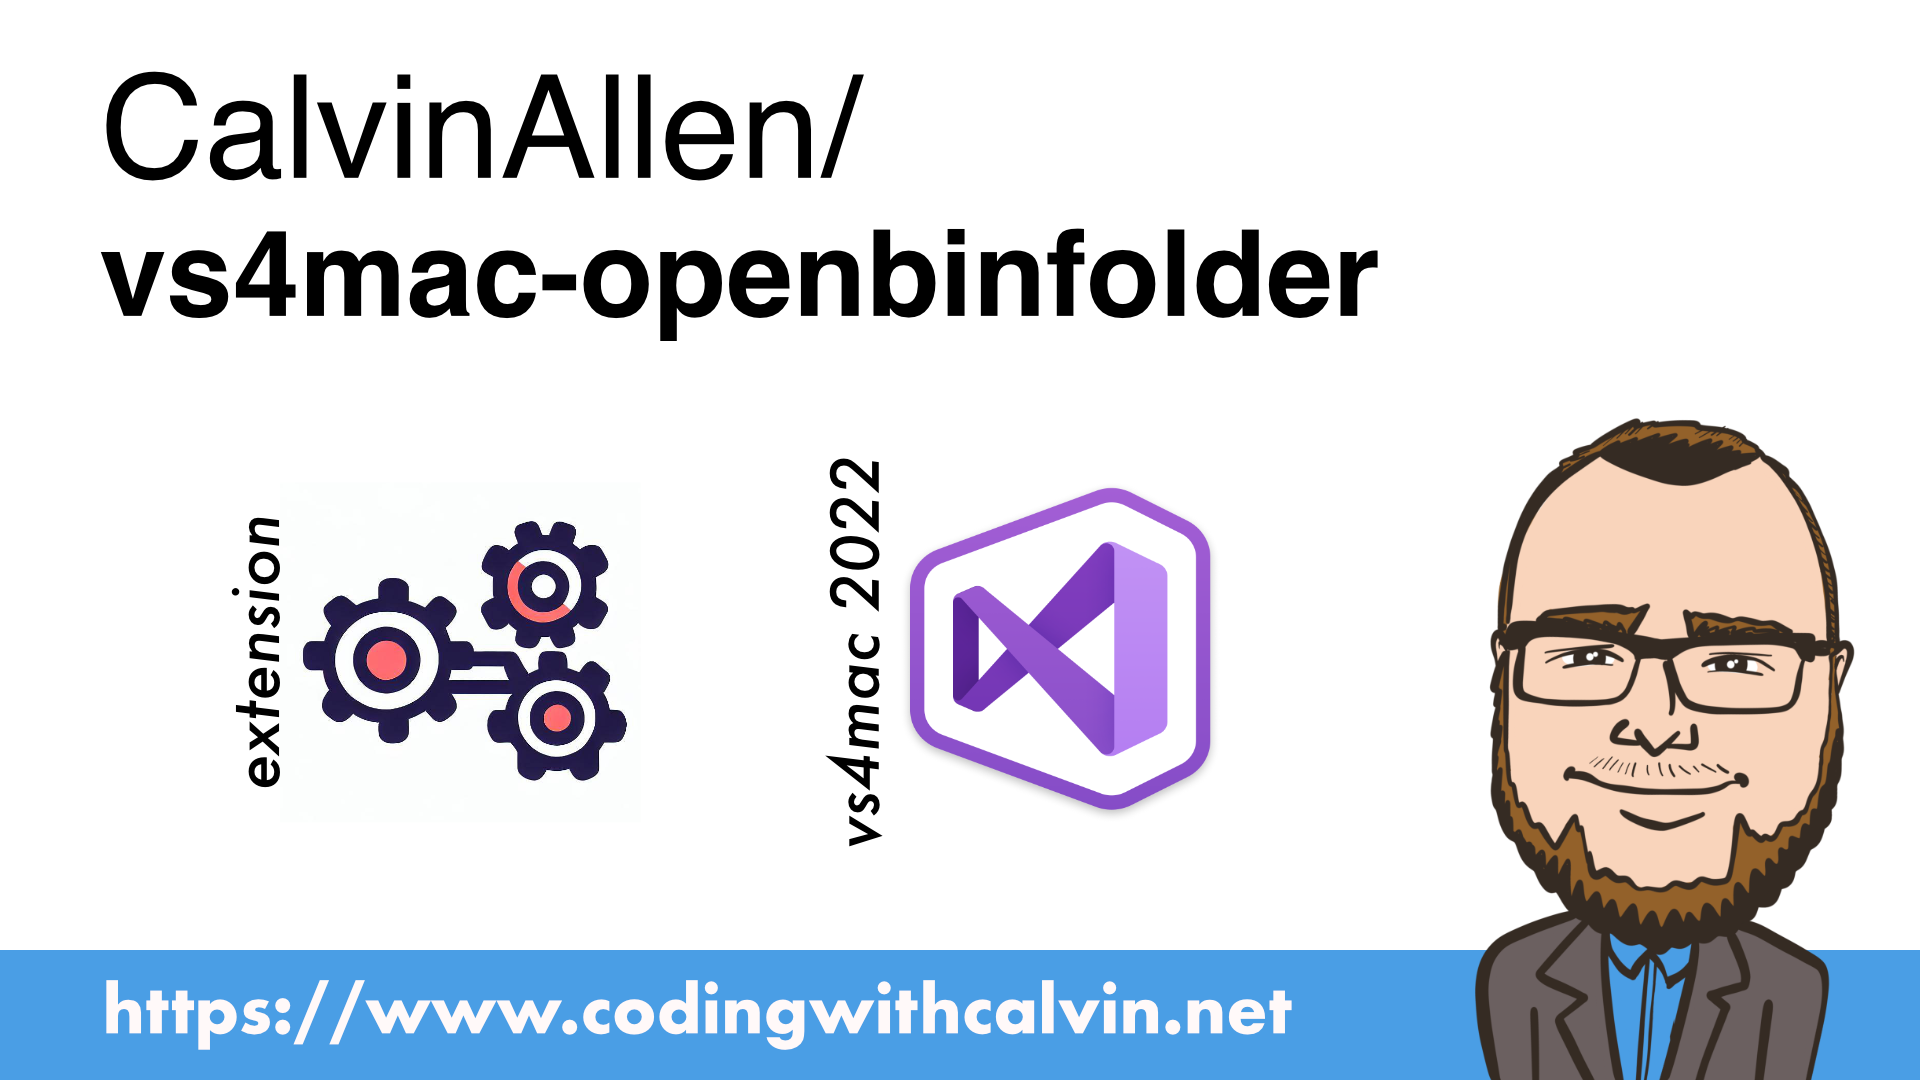
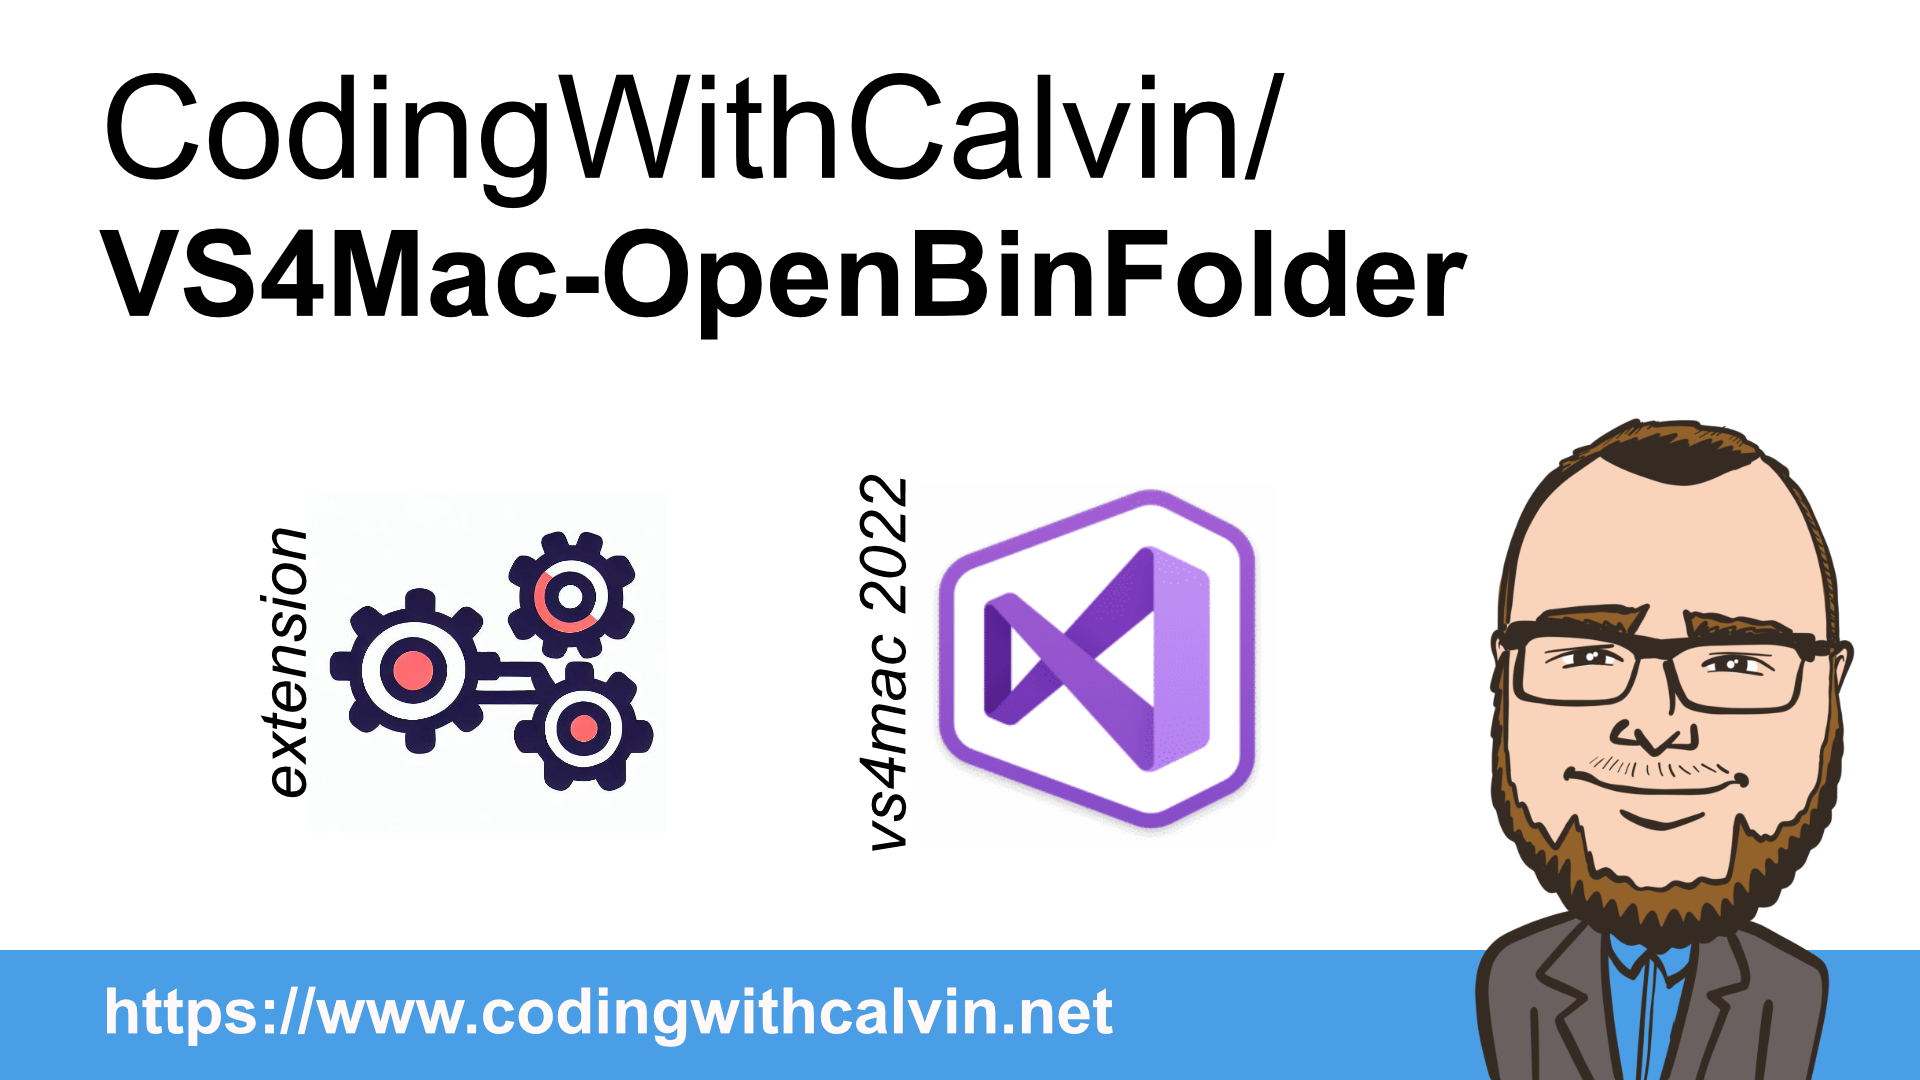
Fixing OSS links and cover images

diff --git a/_posts/2023/2023-04-19-introducing-the-super-clean-visual-studio-for-mac-extension/2023-04-19-introducing-the-super-clean-visual-studio-for-mac-extension.md b/_posts/2023/2023-04-19-introducing-the-super-clean-visual-studio-for-mac-extension/2023-04-19-introducing-the-super-clean-visual-studio-for-mac-extension.md
@@ -9,7 +9,7 @@ You don't hear a lot about Visual Studio for Mac in the extensibility space. One
 
 I steered clear of it for a long time, but I've decided to rectify this problem and start building Visual Studio for Mac extensions.
 
-Today, I started with a small sampling by taking the ["Super Clean" extension I made for Visual Studio](https://www.codingwithcalvin.net/introducing-the-super-clean-visual-studio-extension/), and port it to Visual Studio for Mac. I'm not going into detail about this project, as I'm just getting my feet wet, but if you're interested (and as always) [its open-source on GitHub](https://github.com/CalvinAllen/vs4mac-super-clean).
+Today, I started with a small sampling by taking the ["Super Clean" extension I made for Visual Studio](https://www.codingwithcalvin.net/introducing-the-super-clean-visual-studio-extension/), and port it to Visual Studio for Mac. I'm not going into detail about this project, as I'm just getting my feet wet, but if you're interested (and as always) [its open-source on GitHub](https://github.com/CodingWithCalvin/VS4Mac-SuperClean).
 
 Without further ado, introducing the "Super Clean" extension for Visual Studio for Mac! This one works a bit differently from its Windows counter-part, but only slightly. Instead of being an available right-click context menu command on the Solution and Project nodes of the Solution Explorer, this version has a single command, 'Super Clean Solution', nested inside of the 'Build' menu from the main toolbar. Why? Well, simply, I found examples on how to do that, but not for context menus. Triggering it does a "Super Clean" on every project in the active solution. "Super Clean", here, being defined as a recursive delete of the `bin` and `obj` folders inside of each project folder. There is a small caveat, in that, if you've moved the output directory somewhere other than `bin`, this extension isn't going to work. Perhaps in the next version!
 

diff --git a/_posts/2023/2023-04-05-introducing-the-visual-studio-vsix-versioner-github-action/2023-04-05-introducing-the-visual-studio-vsix-versioner-github-action.md b/_posts/2023/2023-04-05-introducing-the-visual-studio-vsix-versioner-github-action/2023-04-05-introducing-the-visual-studio-vsix-versioner-github-action.md
@@ -38,7 +38,7 @@ Now, when we want to uptick our version number during a release, we only have to
 ```yaml
 steps:
   - name: Visual Studio VSIX Versioner
-    uses: CalvinAllen/action-vs-vsix-versioner@v1
+    uses: CodingWithCalvin/GHA-VSVsixVersioner@v1
     with:
       extension-manifest-file: "./src/CodingWithCalvin.OpenBinFolder.Vsix/source.extension.vsixmanifest"
       extension-source-file: "./src/CodingWithCalvin.OpenBinFolder.Vsix/source.extension.cs"
@@ -48,4 +48,4 @@ Remember we talked about "the Calvin way"? Well, the action creates a new versio
 
 For example, if my workflow has ran 75 times already and today is 2023-04-05, then when we run this action, we'll get a version number of `2023.04.05.76`. I know date versioning isn't everybodys' cup of tea, but it works for me for the few extensions I have. One thing to note, is the Date is calculated at UTC, so it may end up being "slightly off" on the specific day if you're in a different timezone.
 
-Thanks for reading, and if you're wondering....of course, [its open source](https://github.com/CalvinAllen/action-vs-vsix-versioner)! Feel free to peruse the source code, create issues, and have discussions on ways we can make this tool even better - including other versioning schemes!
+Thanks for reading, and if you're wondering....of course, [its open source](https://github.com/CodingWithCalvin/GHA-VSVsixVersioner)! Feel free to peruse the source code, create issues, and have discussions on ways we can make this tool even better - including other versioning schemes!

diff --git a/_posts/2023/2023-04-04-introducing-the-visual-studio-marketplace-publish-github-action/2023-04-04-introducing-the-visual-studio-marketplace-publish-github-action.md b/_posts/2023/2023-04-04-introducing-the-visual-studio-marketplace-publish-github-action/2023-04-04-introducing-the-visual-studio-marketplace-publish-github-action.md
@@ -11,7 +11,7 @@ Imagine you have a workflow in GitHub that builds your extension and posts the r
 
 ```yaml
 - name: Visual Studio Marketplace Publisher
-    uses: CalvinAllen/action-vs-marketplace-publish@v1
+    uses: CodingWithCalvin/GHA-VSMarketplacePublisher@v1
     with:
     # REQUIRED
     marketplace-pat: ${{ secrets.vs_pat }}
@@ -21,4 +21,4 @@ Imagine you have a workflow in GitHub that builds your extension and posts the r
 
 Provide your secret PAT, your deployment manifest, and where the extension output file is - then sit back and relax while all the magic happens for you. Note there are a couple other optional parameters to control which version of the Visual Studio SDK tooling gets used under the hood, but by default, you'll utilize the latest version available on the images. For real world examples of its usage, I utilize it in 4 separate Visual Studio extension workflows on GitHub, so check out my repos there for more help!
 
-Of course, [its open source](https://github.com/CalvinAllen/action-vs-marketplace-publish), so feel free to peruse the source code, create issues, and have discussions on ways we can make this tool even better!
+Of course, [its open source](https://github.com/CodingWithCalvin/GHA-VSMarketplacePublisher), so feel free to peruse the source code, create issues, and have discussions on ways we can make this tool even better!

diff --git a/_posts/2023/2023-04-06-introducing-the-visual-studio-vsix-signer-github-action/2023-04-06-introducing-the-visual-studio-vsix-signer-github-action.md b/_posts/2023/2023-04-06-introducing-the-visual-studio-vsix-signer-github-action/2023-04-06-introducing-the-visual-studio-vsix-signer-github-action.md
@@ -12,7 +12,7 @@ Imagine you have a workflow in GitHub that builds your extension and posts the r
 ```yaml
 steps:
   - name: Visual Studio VSIX Signer
-    uses: CalvinAllen/action-vs-vsix-signer@v1
+    uses: CodingWithCalvin/GHA-VSVsixSigner@v1
     with:
       # REQUIRED
       sign-certificate-path: ./src/SigningCert.snk
@@ -26,4 +26,4 @@ steps:
 
 Provide the path to your certificate, the path to the VSIX, and your signing password and violá - sit back and relax while all the magic happens for you. Note there are a couple other optional parameters to control which version of the Visual Studio SDK tooling gets used under the hood, but by default, you'll utilize the latest version available on the images. I could use some additional help testing this, though, as I don't sign any of my own extensions (maybe I'll start now!).
 
-Of course, [its open source](https://github.com/CalvinAllen/action-vs-vsix-signer), so feel free to peruse the source code, create issues, and have discussions on ways we can make this tool even better!
+Of course, [its open source](https://github.com/CodingWithCalvin/GHA-VSVsixSigner), so feel free to peruse the source code, create issues, and have discussions on ways we can make this tool even better!

diff --git a/_posts/2023/2023-04-08-introducing-the-breakpoint-notifier-visual-studio-extension/2023-04-08-introducing-the-breakpoint-notifier-visual-studio-extension.md b/_posts/2023/2023-04-08-introducing-the-breakpoint-notifier-visual-studio-extension/2023-04-08-introducing-the-breakpoint-notifier-visual-studio-extension.md
@@ -13,4 +13,4 @@ Now, let's talk about this extensions giant downfall. No configuration, no "form
 
 Thanks for reading! Please check it out, and let me know if you have any suggestions for it - I think somebody should have some at least!
 
-And, of course, [it's open source](https://github.com/CalvinAllen/BreakpointNotifier) and issues / PRs are happily accepted, too, if you're into that sort of thing 😉.
+And, of course, [it's open source](https://github.com/CodingWithCalvin/VS-BreakpointNotifier) and issues / PRs are happily accepted, too, if you're into that sort of thing 😉.
